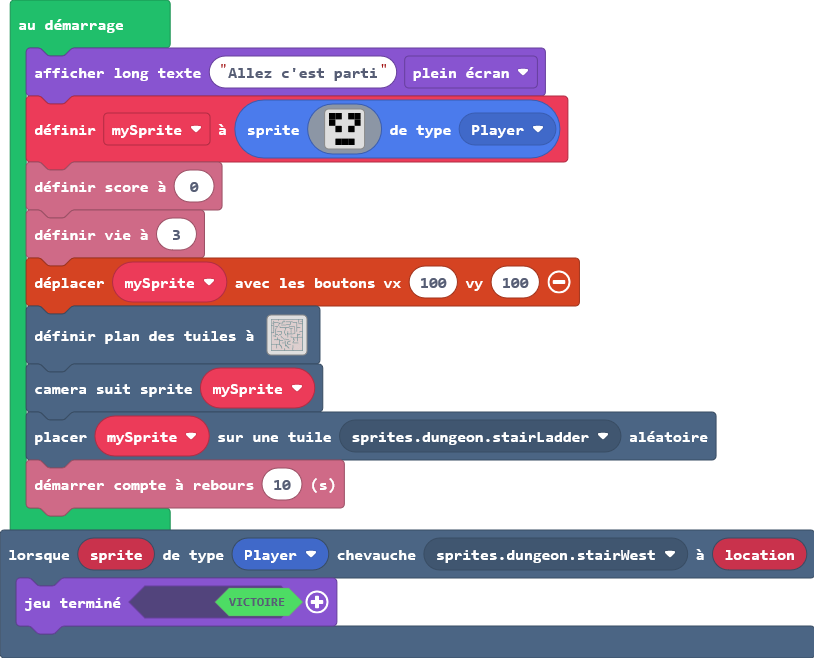
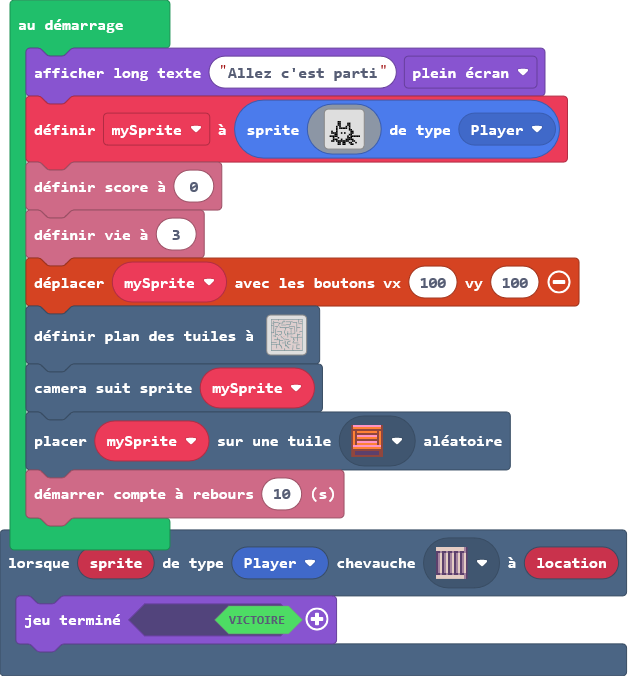
Mise à jour main.blocks, main.ts, images.g.jres, images.g.ts

diff --git a/main.ts b/main.ts
@@ -3,11 +3,26 @@ scene.onOverlapTile(SpriteKind.Player, sprites.dungeon.stairWest, function (spri
 })
 game.showLongText("Allez c'est parti", DialogLayout.Full)
 let mySprite = sprites.create(img`
-    f f . f f 
-    f . . . f 
-    . f . f . 
-    . . . . . 
-    . f f f . 
+    ....................
+    ....................
+    ....................
+    ....................
+    ....................
+    ......ff............
+    ......ff....ff......
+    ......ff....ff......
+    .....f.f...f.f......
+    .....f.fffff.f......
+    .....f.......ff.....
+    ..f..f........ff....
+    ..ffff..f.f...ff....
+    ....ff.......ff.....
+    .fffff......f.ffffff
+    ...f..f.....fff.....
+    ...fff..f..fffff....
+    ..ff.ffffffff..ff...
+    ......ff.ff..ff..f..
+    ......ff.ff...ff....
     `, SpriteKind.Player)
 info.setScore(0)
 info.setLife(3)

diff --git a/images.g.ts b/images.g.ts
@@ -4,11 +4,26 @@ namespace myImages {
     helpers._registerFactory("image", function(name: string) {
         switch(helpers.stringTrim(name)) {
             case "image1":return img`
-f f . f f 
-f . . . f 
-. f . f . 
-. . . . . 
-. f f f . 
+....................
+....................
+....................
+....................
+....................
+......ff............
+......ff....ff......
+......ff....ff......
+.....f.f...f.f......
+.....f.fffff.f......
+.....f.......ff.....
+..f..f........ff....
+..ffff..f.f...ff....
+....ff.......ff.....
+.fffff......f.ffffff
+...f..f.....fff.....
+...fff..f..fffff....
+..ff.ffffffff..ff...
+......ff.ff..ff..f..
+......ff.ff...ff....
 `;
         }
         return null;
